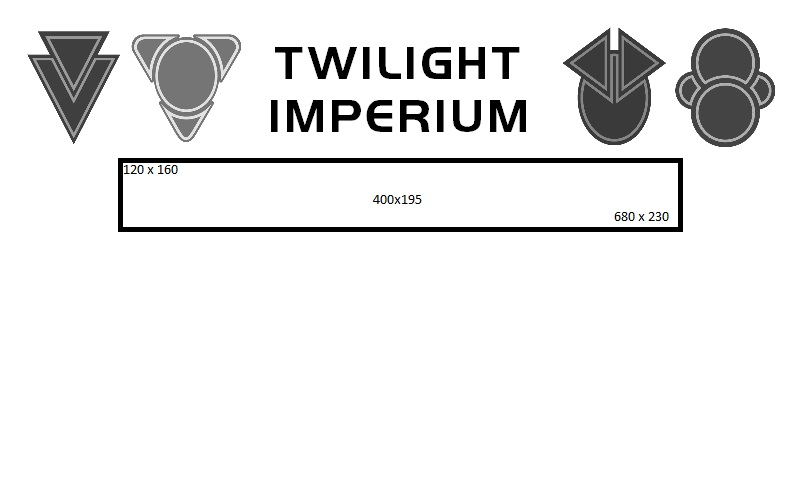
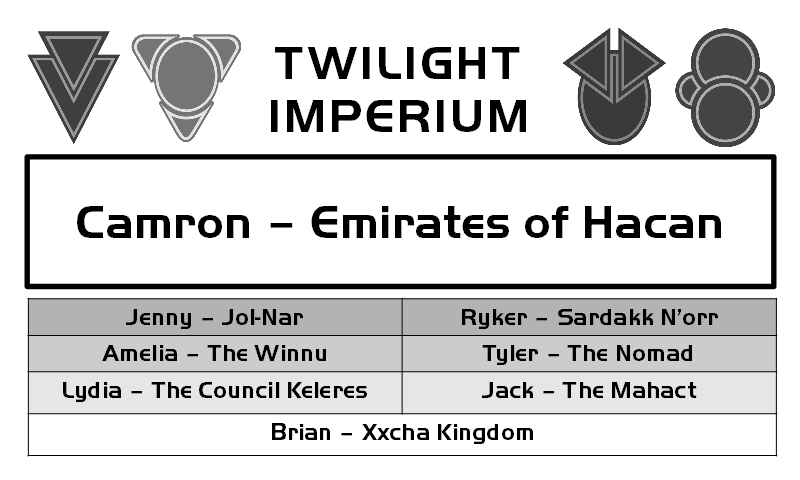
Added new background
Testing new player view

Changed region(s): [[0.0312, 0.3125, 0.9688, 0.9375]]

diff --git a/RaspberryPi_JetsonNano/python/examples/Trophy.py b/RaspberryPi_JetsonNano/python/examples/Trophy.py
@@ -32,8 +32,8 @@ try:
     logging.info("Drawing on the Horizontal image...")
     Himage = Image.new('1', (epd.width, epd.height), 255)  # 255: clear the frame
 
-    background = Image.open(os.path.join(picdir, 'Background Test.jpg'))
-    #background = Image.open(os.path.join(picdir, 'Background Test Blocking.jpg'))
+    #background = Image.open(os.path.join(picdir, 'Background Test.jpg'))
+    background = Image.open(os.path.join(picdir, 'Background Test Blocking.jpg'))
     Himage.paste(background, (0,0))
     epd.display_Fast(epd.getbuffer(Himage))
     #time.sleep(2)
